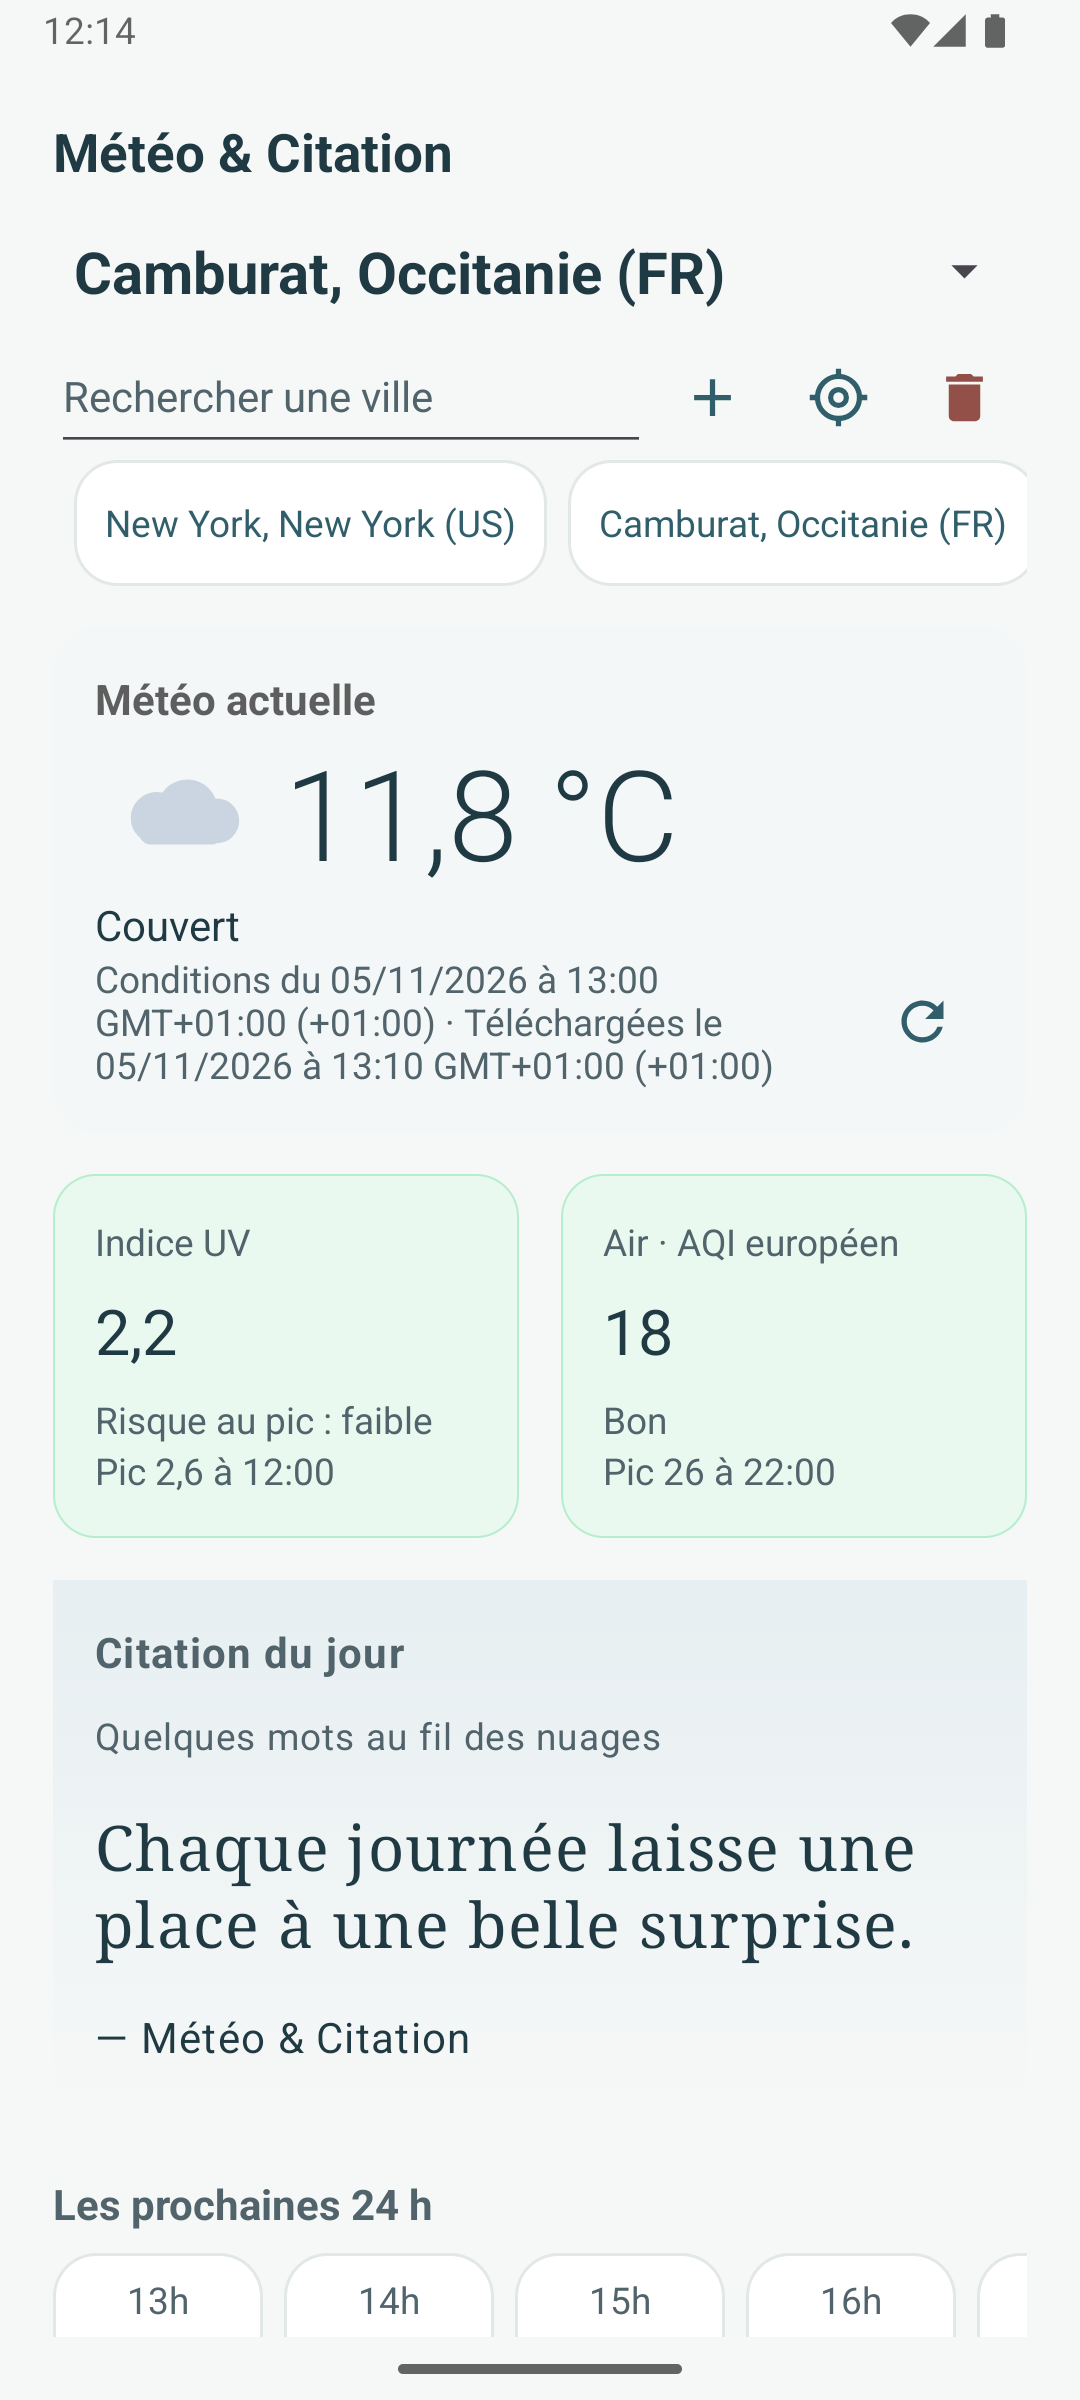
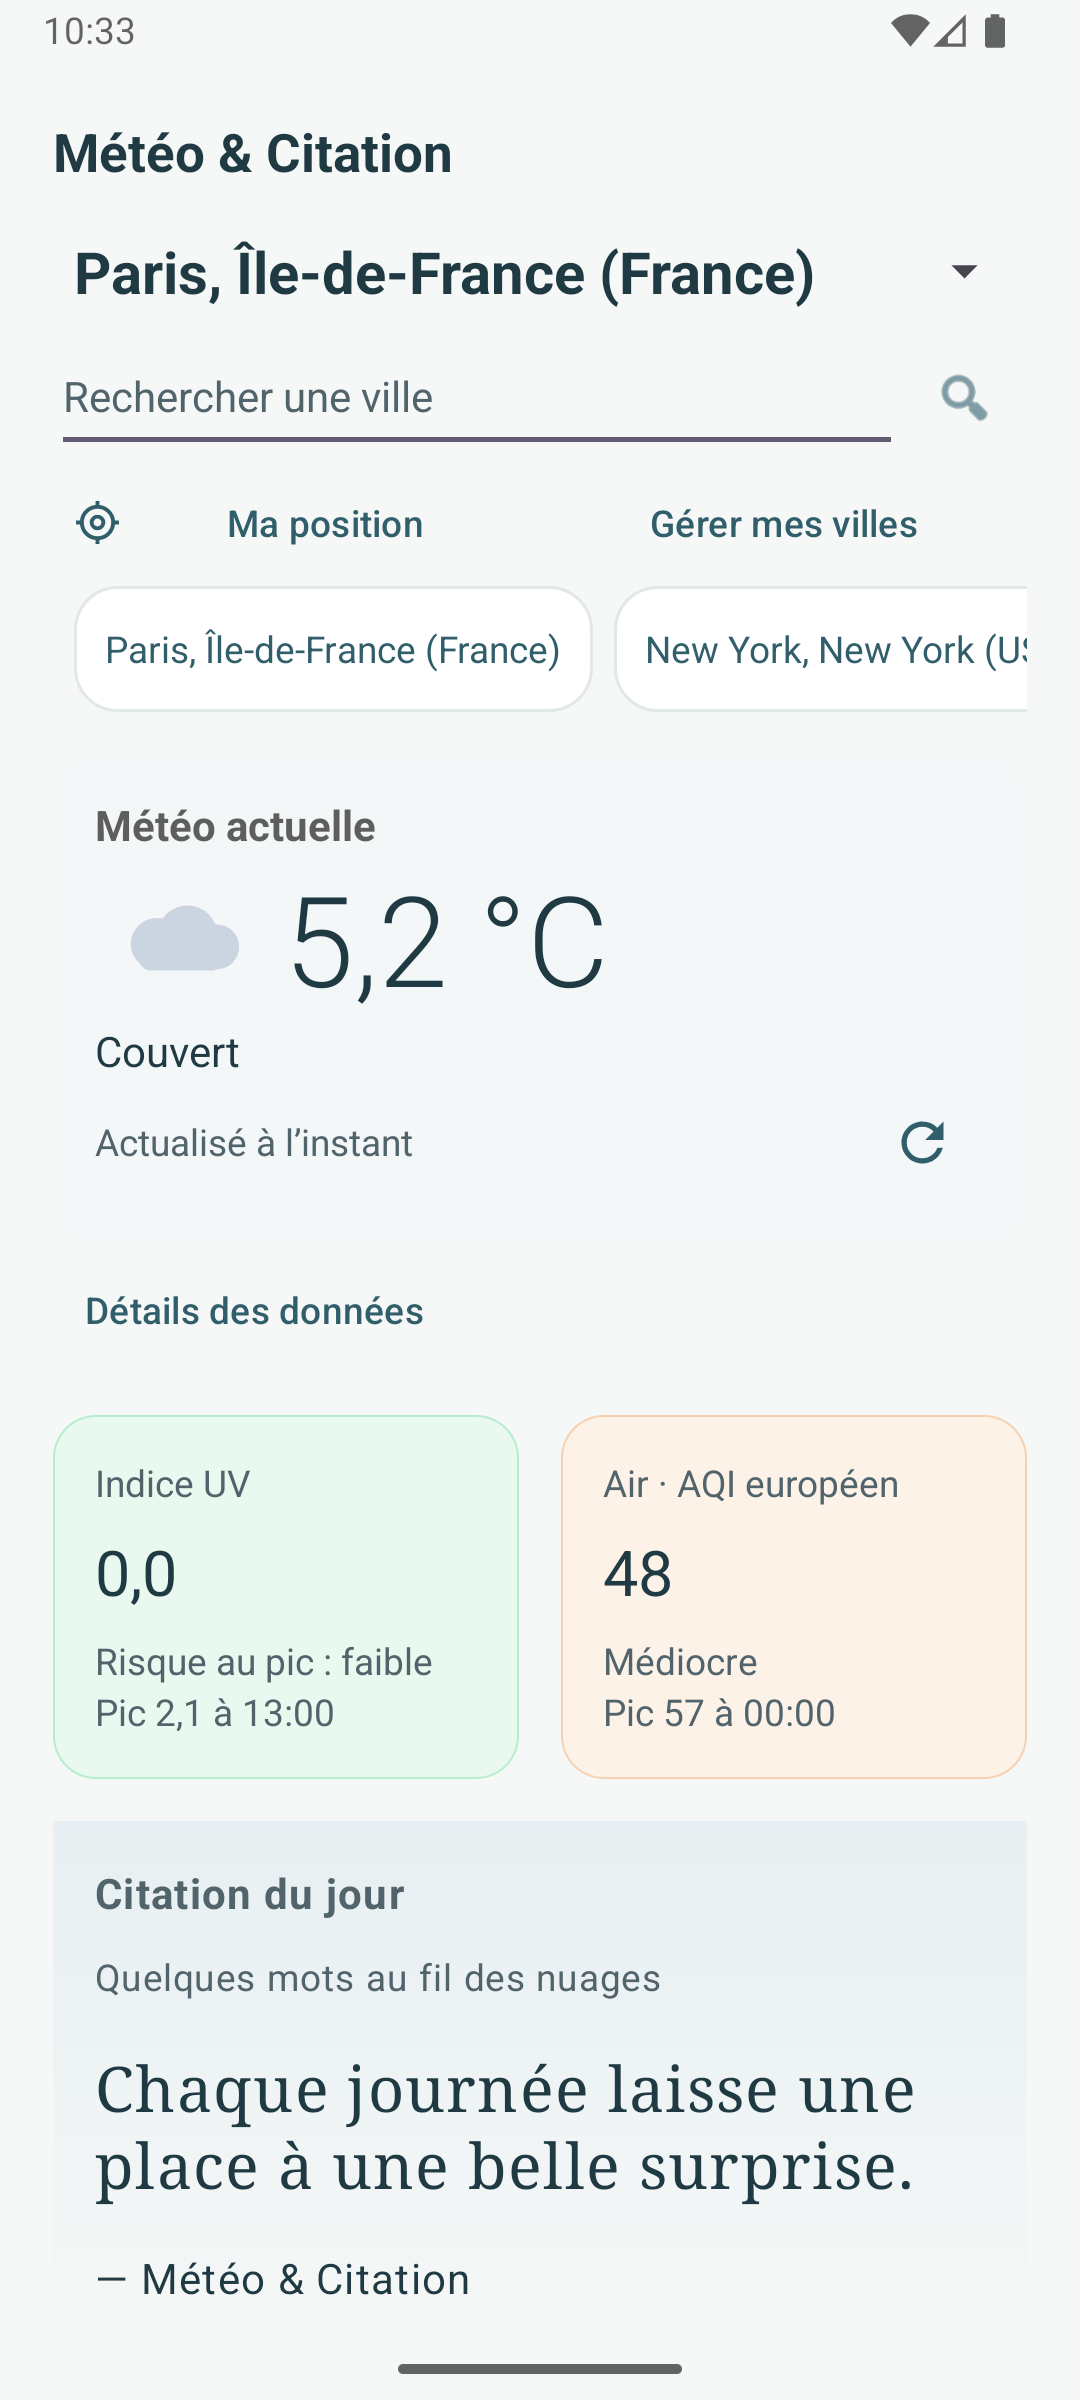
ajustements

diff --git a/app/src/androidTest/java/com/valerie/meteoquote/CityNavigationTest.kt b/app/src/androidTest/java/com/valerie/meteoquote/CityNavigationTest.kt
@@ -17,7 +17,22 @@ import org.junit.runner.RunWith
 class CityNavigationTest {
     @Test fun keyboardRotationAndIdentityBasedConfirmation() {
         ActivityScenario.launch(MainActivity::class.java).use { scenario ->
-            onView(withId(R.id.etCitySearch)).perform(scrollTo(), click(), replaceText(""), typeText("Saint Martin"), closeSoftKeyboard())
+            onView(withId(R.id.etCitySearch)).perform(scrollTo(), click(), replaceText(""))
+            onView(withId(R.id.etCitySearch)).perform(object : androidx.test.espresso.ViewAction {
+                override fun getConstraints() = isAssignableFrom(EditText::class.java)
+                override fun getDescription() = "Wait for the IME input connection before injecting key events"
+                override fun perform(controller: androidx.test.espresso.UiController, view: android.view.View) {
+                    val deadline = android.os.SystemClock.uptimeMillis() + 5_000
+                    while (androidx.core.view.ViewCompat.getRootWindowInsets(view)
+                            ?.isVisible(androidx.core.view.WindowInsetsCompat.Type.ime()) != true &&
+                        android.os.SystemClock.uptimeMillis() < deadline) controller.loopMainThreadForAtLeast(100)
+                    controller.loopMainThreadForAtLeast(500)
+                }
+            }, typeTextIntoFocusedView("Paris"), closeSoftKeyboard())
+            onView(withId(R.id.etCitySearch)).check(matches(withText("Paris")))
+            // A multiword draft tests recreation independently of the emulator IME's
+            // English auto-correction of synthetic key events at word boundaries.
+            onView(withId(R.id.etCitySearch)).perform(replaceText("Saint Martin"), closeSoftKeyboard())
             scenario.recreate()
             onView(withId(R.id.etCitySearch)).check(matches(withText("Saint Martin")))
             val target = City("Ville de recette à supprimer", 12.345, 23.456)

diff --git a/app/src/main/java/com/valerie/meteoquote/MainActivity.kt b/app/src/main/java/com/valerie/meteoquote/MainActivity.kt
@@ -248,8 +248,12 @@ class MainActivity : AppCompatActivity() {
                 }
                 launch {
                     viewModel.searchState.collect { state ->
+                        if (state != viewModel.searchState.value) return@collect
                         val input = findViewById<EditText>(R.id.etCitySearch)
-                        if (input.text.toString() != state.query) input.setText(state.query)
+                        // Typing already updates the ViewModel via the TextWatcher. Echoing
+                        // every emission here can overwrite a newer IME edit with an old draft.
+                        // Restore on creation; clear only after an explicit, still-current choice.
+                        if (state.addedCity != null && input.text.toString() != state.query) input.setText(state.query)
                         findViewById<Button>(R.id.btnAddCity).isEnabled = !state.isSearching
                         findViewById<View>(R.id.searchProgress).visibility = if (state.isSearching) View.VISIBLE else View.GONE
                         findViewById<View>(R.id.btnCancelSearch).visibility =

diff --git a/docs/RECETTE_LOT_UX_1.md b/docs/RECETTE_LOT_UX_1.md
@@ -1,4 +1,4 @@
-# Recette du lot UX 1 — 14 novembre 2026
+# Recette du lot UX 1 — 14–15 novembre 2026
 
 Branche : `codex/ux-etats-libelles`. Cette recette porte sur la fraîcheur, la recherche multirésultat et la gestion des villes. Les résultats locaux ne certifient pas le comportement de tous les téléphones ni de tous les lanceurs Android.
 
@@ -31,4 +31,38 @@ Noter le modèle, la version Android, le lanceur, la version de TalkBack et la v
 
 ## Validation locale
 
-Résultats et limites de la recette sur émulateur consignés ci-dessous à la fin de l'exécution.
+Environnement : Windows, JDK 17, SDK Android 36, AVD `Medium_Phone_API_36.0`. Les données météo des captures sont celles reçues pendant les essais ; les tests de concurrence et de fraîcheur utilisent aussi des scénarios contrôlés.
+
+| Vérification | Résultat |
+|---|---|
+| `testDebugUnitTest` | 141 tests réussis, aucun échec. Dont réponses obsolètes, sélection explicite, suppression par identité, fraîcheur et ordonnancement du widget. |
+| `lintDebug` | Réussi : 0 erreur, 77 avertissements. Ce résultat ne signifie pas « aucun avertissement ». |
+| `assembleDebug`, `assembleRelease`, `assembleDebugAndroidTest` | Réussis. APK release non signé ; aucune publication effectuée. |
+| Recette instrumentée finale du 15 novembre | 14 tests réussis sur chacun des quatre profils : compact 320×640 dp, standard 411×891 dp, tablette 800×1280 dp, compact 320×640 dp avec police à 200 %. Soit 56 exécutions réussies, sans échec. Clavier, recréation, gestion/confirmation, détails, cache et widget inclus. |
+| Recherche réelle « Paris » au clavier | Cinq homonymes avec région/pays ; sélection conservée jusqu'au choix explicite de Paris en France. |
+| Rotation réelle portrait → paysage → portrait | Saisie « Paris » et résultats conservés, puis choix possible. |
+| Wi-Fi et données mobiles désactivés | Météo en cache conservée, message d'échec et Réessayer ; recherche « Lyon » en erreur sans effacer la saisie. Réseau restauré ensuite. |
+| Widget sans réseau | `WidgetHostTest` réussi : ajout dans un véritable hôte Android, actualisation, passage rapide A → B dans le ViewModel de l'activité, rendu final B y compris sans cache disponible initialement. |
+| TalkBack | Service activé et lié, exploration tactile active vérifiée ; parcours au clavier, ouverture/fermeture du dialogue de gestion vérifiés. Réglages restaurés. Prononciation, confort d'écoute et gestes tactiles complets restent à confirmer sur téléphone. |
+
+### Corrections issues de la recette
+
+- Les actions principales partagent une ligne uniquement si les deux libellés tiennent entièrement ; sinon elles s'empilent. Le test compact de visibilité de la citation conserve son seuil initial.
+- Le bouton des détails reprend le style des autres actions, sans capitales forcées.
+- Une frappe réelle avait révélé une réinjection transitoire de l'ancien brouillon : l'invalidation et le nouveau texte sont désormais publiés atomiquement par le ViewModel. L'activité ne recopie plus chaque émission dans le champ pendant la frappe ; elle restaure le texte à la création et le vide après un choix valide. Le test Android attend la connexion du clavier avant d'injecter les caractères, puis vérifie la conservation après recréation.
+- Le champ de ville demande au clavier de désactiver les suggestions automatiques. Le clavier anglais de l'émulateur substitue toutefois « Saint Martin » lors de certaines frappes synthétiques : ce comportement ne peut pas être garanti pour tous les claviers. Le test vérifie séparément la frappe réelle de « Paris » et la conservation d'un brouillon composé après recréation. Refaire les noms propres avec votre clavier fait partie de la recette physique.
+- Le test de dialogue cible explicitement la fenêtre du dialogue. L'empilement à 200 % est vérifié avec les polices réelles d'Android, plutôt qu'avec les métriques simulées de Robolectric.
+
+### Captures conservées
+
+- [Accueil actuel](../art/screenshot_main.png).
+- [Recherche avec cinq homonymes](../art/ux-lot-1/recherche.png).
+- [Résultats après rotation en paysage](../art/ux-lot-1/recherche-paysage.png).
+- [Petit écran et police 200 %](../art/ux-lot-1/police-200.png).
+- [Erreur de recherche sans réseau et météo en cache](../art/ux-lot-1/hors-ligne.png).
+
+Les rapports détaillés sont générés sous `app/build/reports/`, les sorties instrumentées sous `app/build/ui-review/` et les captures de manipulation sous `app/build/ux-validation/`. Ces dossiers ne sont pas versionnés et peuvent disparaître après nettoyage. Les captures ci-dessus restent dans `art/`.
+
+### Limites et suites
+
+L'hôte de test Android vérifie le fournisseur et les workers réels, mais ne remplace pas la recette sur le lanceur de votre téléphone, notamment après redimensionnement et restrictions de batterie. La détection dédiée du mode hors ligne reste hors de ce lot : une erreur réseau affiche un échec, sans inventer un statut de connectivité. Aucun test sur appareil physique n'a été effectué ici ; les cases de la checklist restent volontairement décochées.

diff --git a/docs/UX_LOT_1_ETATS_LIBELLES.md b/docs/UX_LOT_1_ETATS_LIBELLES.md
@@ -98,7 +98,7 @@ La recherche peut afficher R02–R06 pendant que la météo reste en M01–M03. 
 
 ## 6. Priorités de présentation
 
-Gestion des villes implémentée le 13 novembre 2026 : libellé visible « Ma position », dialogue « Gérer mes villes » avec liste défilante et choix de ville, suppression avec confirmation nominative. La cible est résolue par coordonnées dans la liste courante ; une confirmation périmée ne supprime aucun autre lieu. La dernière ville ne peut pas être supprimée. Supprimer une ville non sélectionnée conserve la sélection courante ; supprimer la ville sélectionnée choisit une voisine. Les réponses de recherche et localisation antérieures sont invalidées après suppression. Les actions principales occupent chacune une ligne avec hauteur adaptable.
+Gestion des villes implémentée le 13 novembre 2026 : libellé visible « Ma position », dialogue « Gérer mes villes » avec liste défilante et choix de ville, suppression avec confirmation nominative. La cible est résolue par coordonnées dans la liste courante ; une confirmation périmée ne supprime aucun autre lieu. La dernière ville ne peut pas être supprimée. Supprimer une ville non sélectionnée conserve la sélection courante ; supprimer la ville sélectionnée choisit une voisine. Les réponses de recherche et localisation antérieures sont invalidées après suppression. Les actions principales partagent une ligne si leurs libellés tiennent entièrement ; elles s'empilent sinon, avec une hauteur adaptable.
 
 1. Identifier la ville sélectionnée et vérifier si des données de cette ville sont utilisables ; ne jamais réutiliser silencieusement celles d'un autre lieu.
 2. Avec données, choisir M01/M02/M03 selon l'observation, puis ajouter l'opération M05, l'absence de réseau M06 ou l'échec M08. Un échec ne supprime pas le statut ancien/incertain.

diff --git a/README.md b/README.md
@@ -8,7 +8,7 @@ Version déclarée dans le dépôt : **7.4** (`versionCode = 22`). Compatible à
 
 <img src="art/screenshot_main.png" alt="Écran d’accueil de Météo &amp; Citation : météo, indices UV et qualité de l’air, citation du jour" width="420"/>
 
-Capture de la version 7.4 sur émulateur Android, réalisée le 5 novembre 2026.
+Capture de la version de développement 7.4 avec le lot UX 1 sur émulateur Android, réalisée le 14 novembre 2026. [Recette et tests à effectuer sur téléphone](docs/RECETTE_LOT_UX_1.md).
 
 ## Fonctionnalités
 
